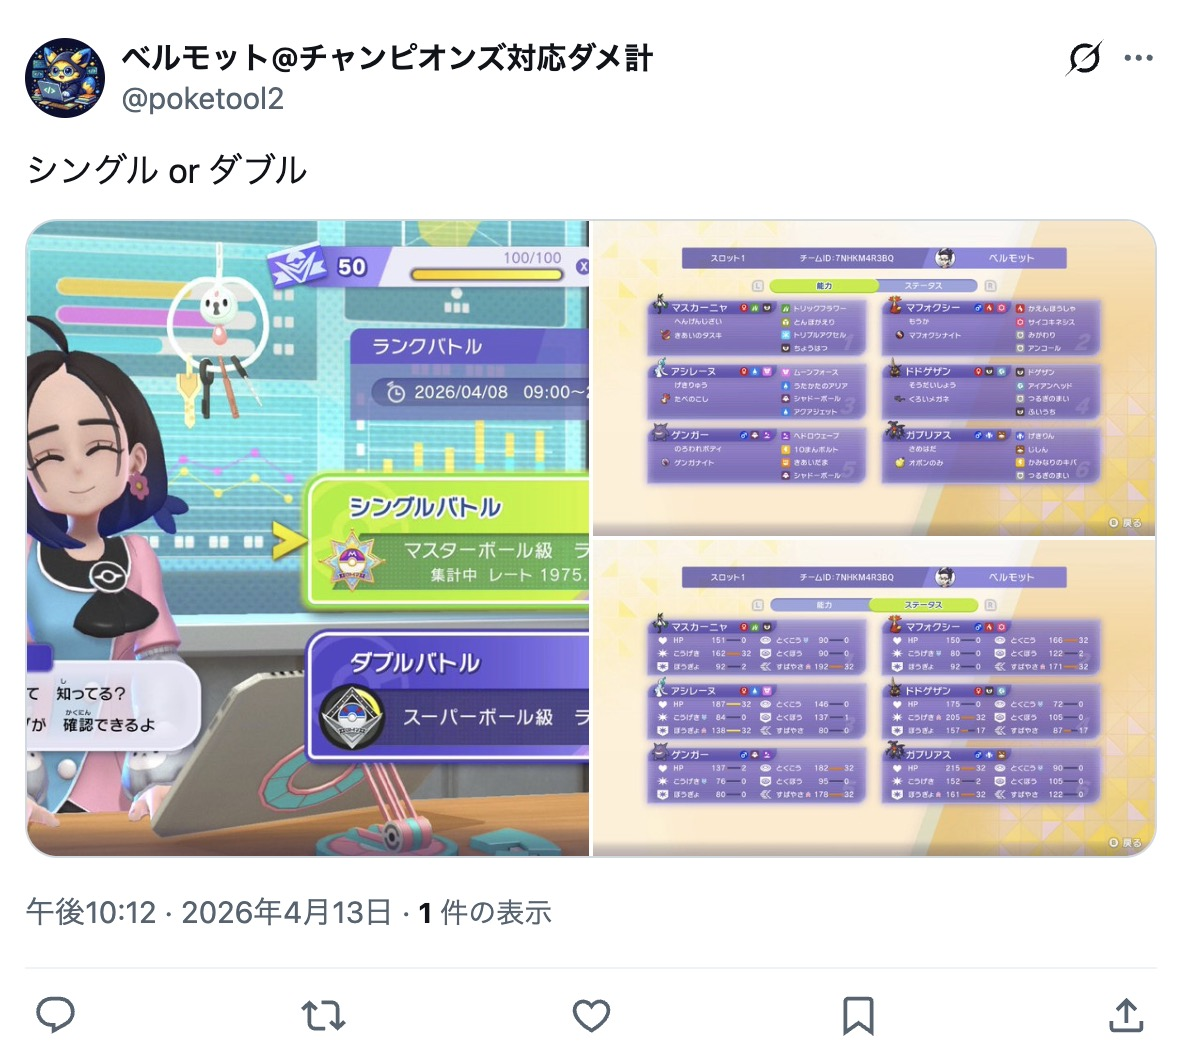
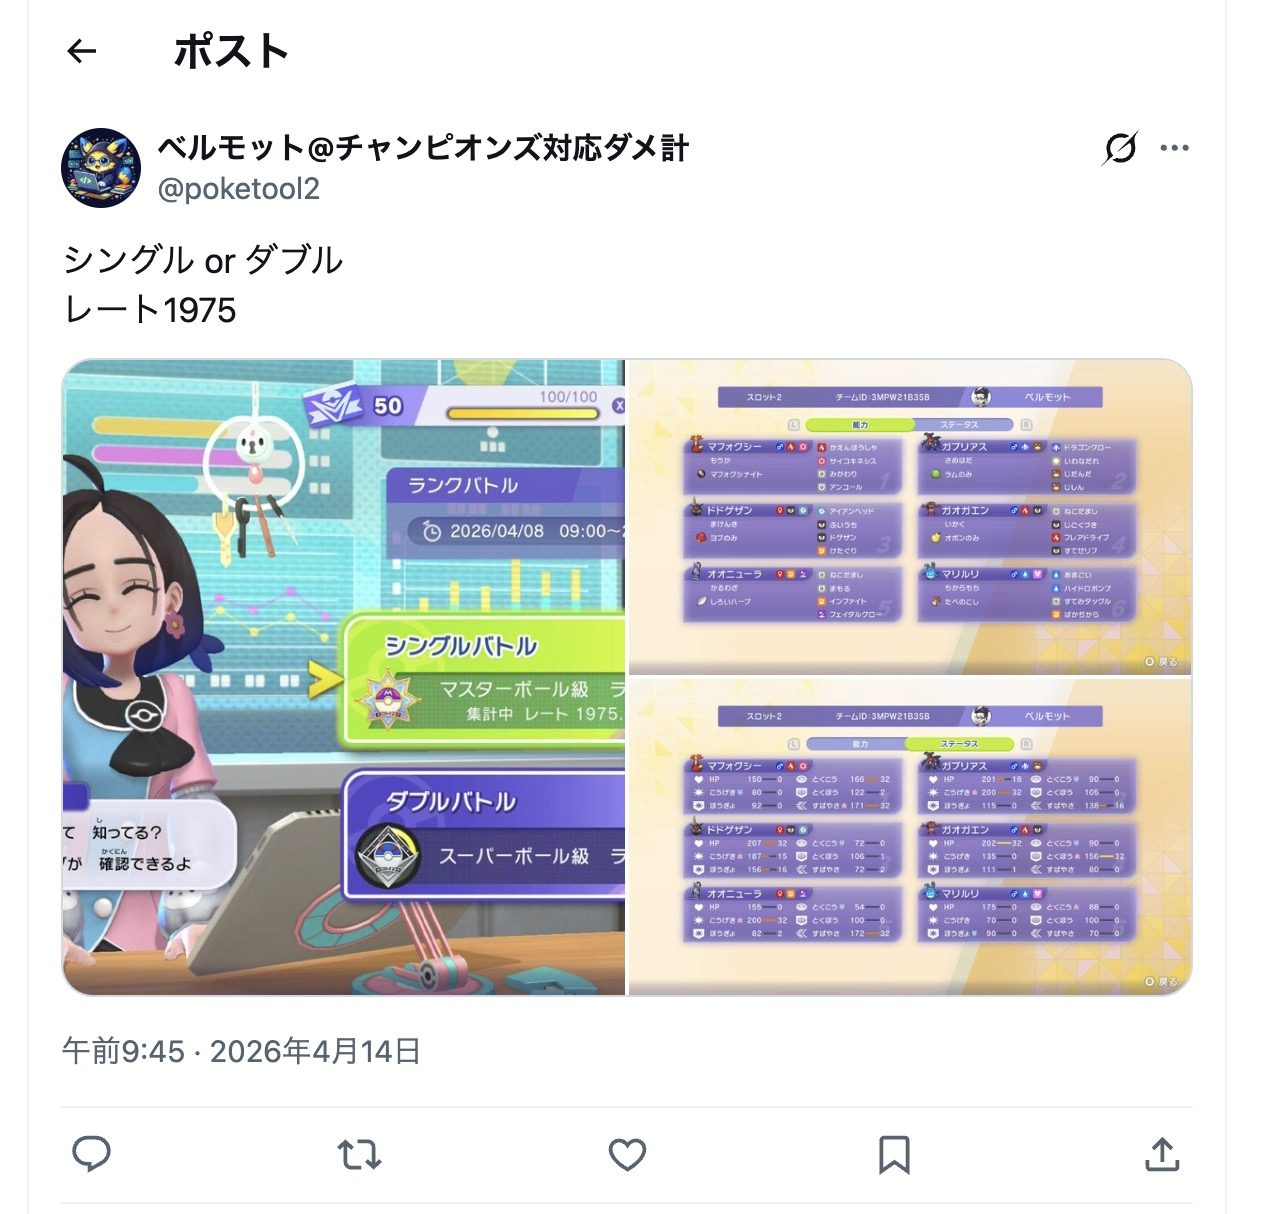
guide: レート自動反映の説明とツイート見本画像を更新
- ガイドページに「レートは自動で反映されます」セクション追加
- ツイート見本画像を最新のスクショに差し替え
- rating カラムの numeric 化マイグレーション追加 (小数レート対応)

diff --git a/app/guide/page.tsx b/app/guide/page.tsx
@@ -79,11 +79,11 @@ export default function GuidePage() {
               {/* eslint-disable-next-line @next/next/no-img-element */}
               <img
                 src="/guide/overview-screen.jpg"
-                alt="バトル画面のスクリーンショット例 - シングル/ダブルの判定に使用"
+                alt="バトル画面のスクリーンショット例 - シングル/ダブルの判定とレート取得に使用"
                 className="w-full"
               />
               <div className="px-3 py-2 text-xs text-slate-600">
-                シングル / ダブルの判定に使います。
+                シングル / ダブルの判定と<strong>レートの自動反映</strong>に使います。
                 <br />
                 ツイート本文に書いてあれば<strong>この写真は不要</strong>です。
               </div>
@@ -134,6 +134,41 @@ export default function GuidePage() {
               <br />
               スクリーンショットを撮る際は、
               できるだけ<strong>正式名称 (デフォルトの名前)</strong> の状態でお願いいたします。
+            </p>
+          </div>
+
+          {/* レート反映のしくみ */}
+          <div className="mt-4 rounded-xl border border-sky-200 bg-sky-50 p-4">
+            <h3 className="text-sm font-bold text-sky-800">
+              レートは自動で反映されます
+            </h3>
+            <p className="mt-2 text-xs leading-relaxed text-sky-700">
+              以下のどちらかがあれば、当サイトにレートが自動で反映されます。
+              <br />
+              ポストの<strong>本文にレートを書く</strong>だけでも OK です！
+            </p>
+            <ul className="mt-3 space-y-1.5 text-xs text-sky-700">
+              <li className="flex items-start gap-2">
+                <span className="mt-0.5 shrink-0 text-sky-500">●</span>
+                <span>
+                  <strong>バトル画面 (写真 1) を添付する</strong>
+                  <br />
+                  画面にレート数値が写っていれば自動で読み取ります。
+                </span>
+              </li>
+              <li className="flex items-start gap-2">
+                <span className="mt-0.5 shrink-0 text-sky-500">●</span>
+                <span>
+                  <strong>ポスト本文にレートを書く</strong>
+                  <br />
+                  「最終2048」「レート1900」「1975まで」「2100乗った」
+                  「最高1998」のような書き方に対応しています。
+                </span>
+              </li>
+            </ul>
+            <p className="mt-3 text-[11px] text-sky-600">
+              ※ レート情報がなくても掲載できます。
+              レートがあると「レート順」でソートした際に上位に表示されやすくなります。
             </p>
           </div>
 
